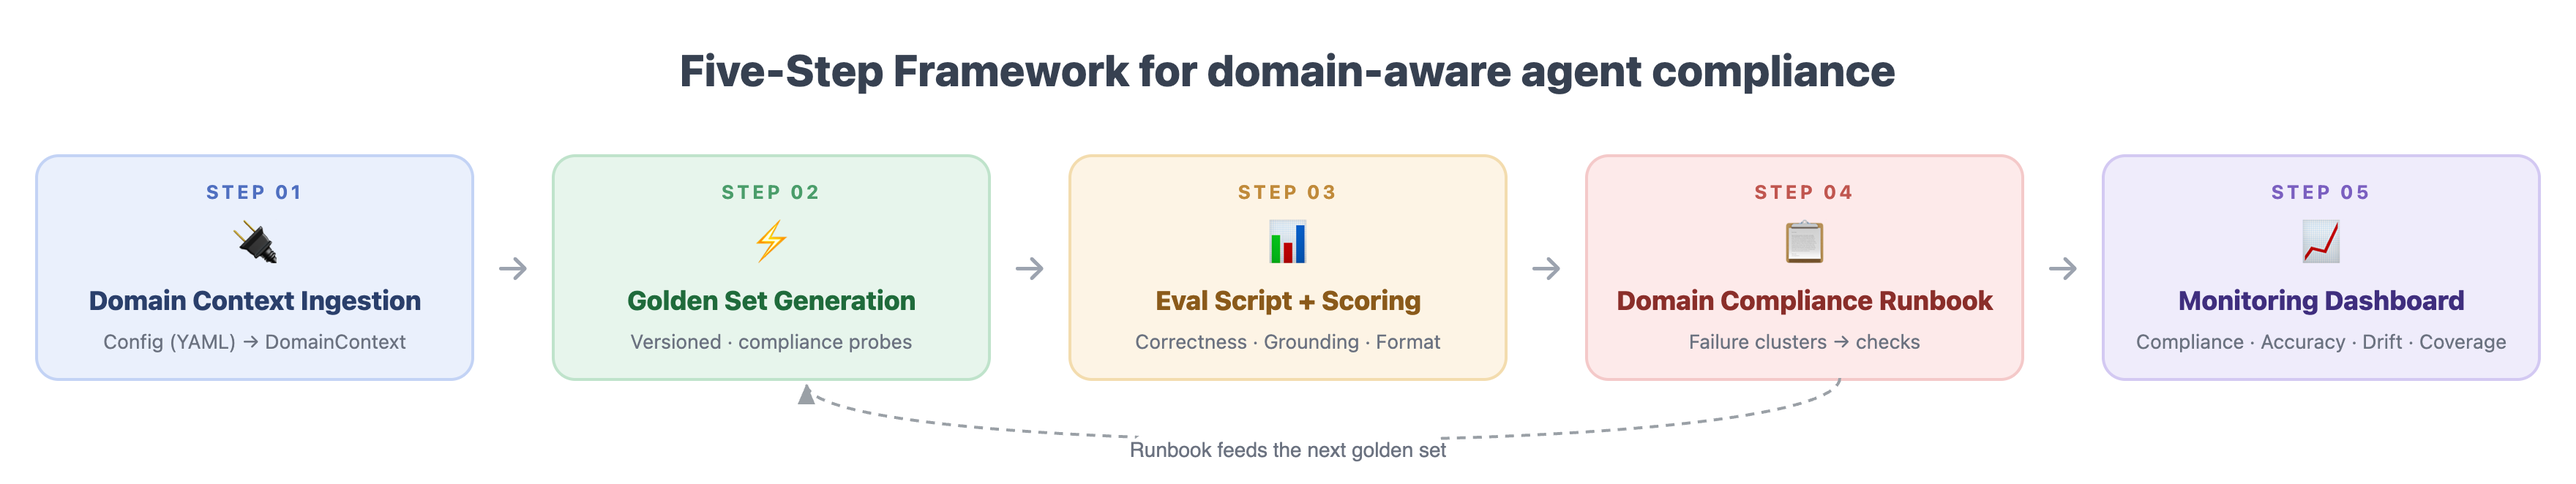
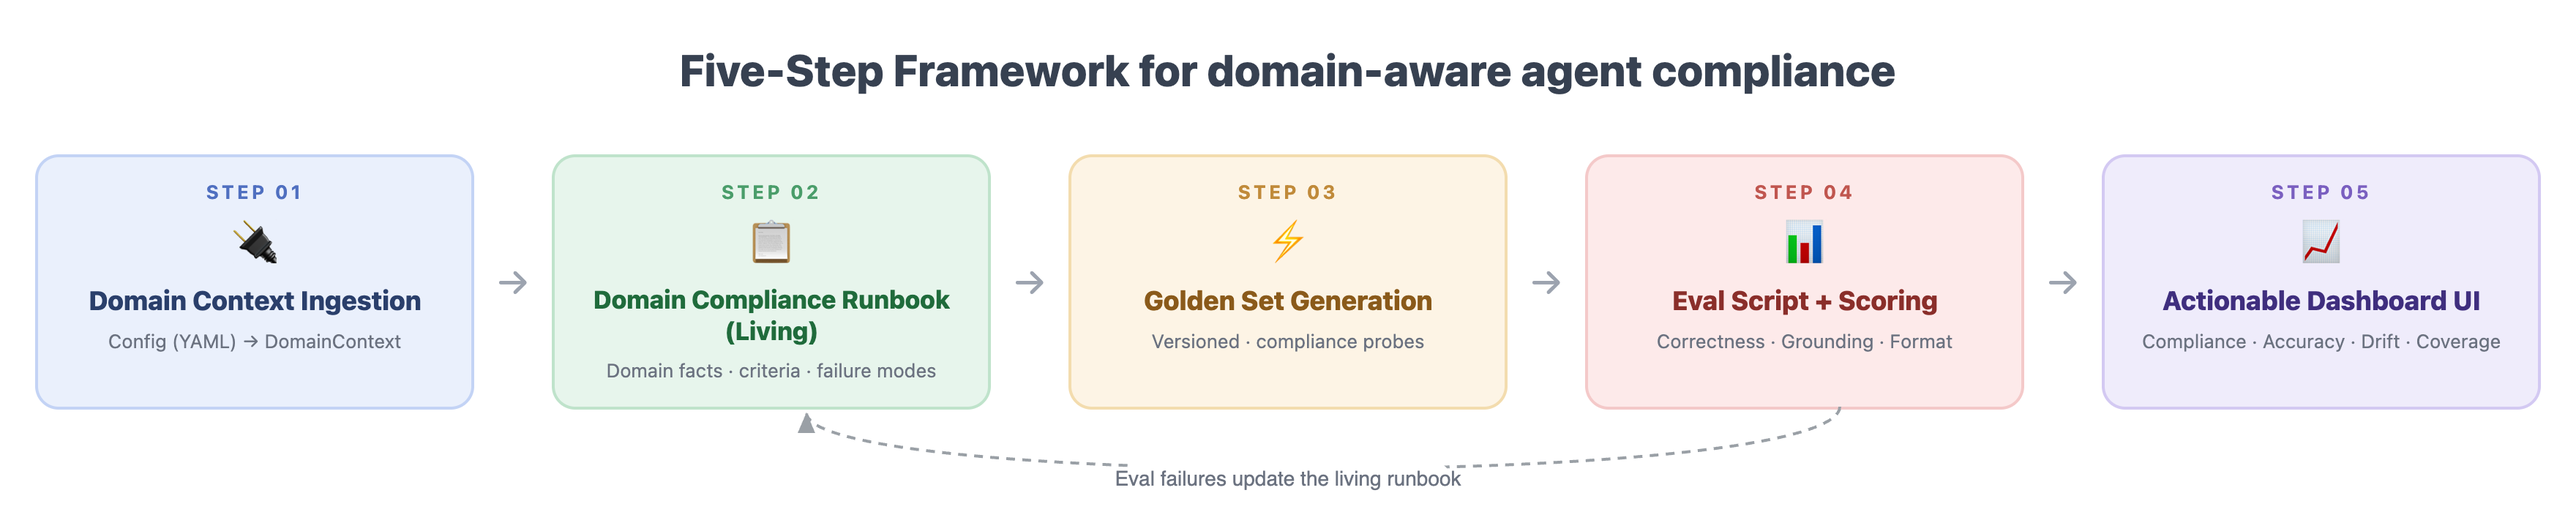
Paper: reorder framework and update pipeline diagram; drop ScienceAgentBench results
- New step order (matches updated diagram): 1 Domain Context Ingestion, 2 Domain Compliance
  Runbook (Living), 3 Golden Set Generation, 4 Eval Script + Scoring, 5 Actionable Dashboard UI.
- Regenerate pipeline.png in this order with the Step-4 -> Step-2 feedback loop; update caption,
  abstract numbering, and all in-text step references accordingly.
- Remove the ScienceAgentBench results subsection; Summary now FinanceBench-only; drop Primary/
  Contrast demo labels. Condense Discussion/Implementation to keep body at 8 pages.

diff --git a/papers/shivika_bisen/main.md b/papers/shivika_bisen/main.md
@@ -12,11 +12,11 @@ abstract: |
   We present **AI Eval Engine**, an open-source Python framework that treats evaluation as a
   pipeline to be *generated* rather than an artifact to be *authored*. A team points the
   framework at where its domain lives; the framework (1) ingests a pluggable domain context
-  from a lightweight configuration, (2) generates a versioned, domain-grounded golden set,
-  (3) emits a runnable evaluation script that scores correctness, evidence grounding, and
-  output format, (4) accumulates a living **Domain Compliance Runbook** that clusters observed failures
-  into domain-specific constraints, and (5) tracks the result as quarter-over-quarter
-  objectives and key results. A central methodological concern for any pipeline that uses a
+  from a lightweight configuration, (2) builds a living **Domain Compliance Runbook** of domain
+  facts and compliance criteria, (3) generates a versioned, domain-grounded golden set from those
+  criteria, (4) emits a runnable evaluation script that scores correctness, evidence grounding,
+  and output format — feeding failures back into the runbook, and (5) tracks the result as
+  quarter-over-quarter objectives and key results. A central methodological concern for any pipeline that uses a
   language model both to generate tests and to judge them is *self-bias*; we address it by
   anchoring demonstrations on tasks whose correctness can be verified by execution or by
   grounding in source documents, and where the model demonstrably fails without the ingested
@@ -78,7 +78,7 @@ AI Eval Engine differs in two ways: it treats **automated generation of the test
 driven by a pluggable domain context, as the primary contribution; and it accumulates a **living
 Domain Compliance Runbook** of domain constraints from observed failures, closing a loop back into
 generation. It is meant to be used *alongside* these tools — RAGAS or DeepEval metrics register as
-extra Step-3 scorers — and self-improving methods such as Agentic Context Engineering
+extra Step-4 scorers — and self-improving methods such as Agentic Context Engineering
 [@zhang2026ace] are candidates for evaluation *by* it, not components of it.
 
 ## Methodology: Domain-Aware Evaluation Without Self-Bias
@@ -117,10 +117,10 @@ pipeline.
 :::{figure} pipeline.png
 :label: fig:pipeline
 :width: 100%
-The five-step framework. A pluggable domain context (Step 1) drives golden-set generation (Step 2)
-and eval-script generation and scoring (Step 3); failure clusters feed the living **Domain
-Compliance Runbook** (Step 4), whose new constraints flow back into Step 2; a monitoring dashboard
-(Step 5) tracks the OKRs over time.
+The five-step framework. A pluggable domain context (Step 1) builds the living **Domain Compliance
+Runbook** (Step 2), whose criteria drive golden-set generation (Step 3); eval-script generation and
+scoring (Step 4) feed failures back into the runbook, and an actionable dashboard (Step 5) tracks
+the OKRs over time.
 :::
 
 ### Step 1 — Pluggable Domain Context Ingestion
@@ -152,33 +152,45 @@ patterns). Users are **not** asked to hand-author a taxonomy or compliance docum
 to where the data lives, and the framework surfaces what matters. Stratified sampling ensures
 the extraction sees the breadth of the domain rather than only its most common cases.
 
-### Step 2 — Automated Golden Set Generation
+### Step 2 — Domain Compliance Runbook (Living)
 
-From the `DomainContext`, the framework constructs a versioned, domain-grounded set of
-`GoldenCase`s, each carrying the input, the expected outcome (an executable check, an artifact, or
-an evidence-grounded answer), and the compliance criterion or capability it probes. Two paths
-exist: **normalize** (`build_golden_set`, fully offline) adopts a public benchmark's own verified
-labels; **generative** (`generate_golden_set`) has Claude author fresh cases grounded in real
-evidence — happy-path lookups, hard multi-step computations, definitionally ambiguous queries, and
-out-of-policy requests the agent must decline (e.g. asking for free cash flow from a balance sheet
-alone). In both, **compliance probes** are synthesized from the `DomainContext`'s extracted
-criteria — the five agentic-compliance anchors (domain scope, evidence grounding,
-privacy/confidentiality, no-advice, human escalation) instantiated for the domain — so every domain
-rule is always probed. Generating this *compliance coverage* from extracted constraints, rather
-than plain corpus-to-question pairs, is the contribution; recurring failures from the Compliance
-Runbook (Step 4) feed back here as priorities for the next set.
+From the `DomainContext`, the framework assembles a single content-addressed
+`domain_compliance_runbook.json` — the **Domain Compliance Runbook** — with three sections:
+**domain facts** (definitions, conventions, units), **compliance criteria** (the extracted
+agentic-compliance anchors — domain scope, evidence grounding, privacy/confidentiality, no-advice,
+and human escalation — with severity), and **common failure modes**. The first two are seeded now,
+at ingestion; the third is *living* — it accumulates as the eval (Step 4) surfaces failures, which
+the framework clusters deterministically by `(category, failure_type)` and turns into a
+`recommended_check` (the golden-set addition that would catch each one). Compliance is therefore
+*discovered, not declared*: a cluster surfaced in run $N$ becomes a runbook entry the golden-set
+generator (Step 3) picks up as a priority for run $N{+}1$, closing the loop between observation and
+test generation. The clustering and `recommended_check` mapping are **deterministic rules, not a
+learned model** — "living" means an accumulated, human-reviewable record, not gradient training.
+
+### Step 3 — Automated Golden Set Generation
+
+From the Domain Compliance Runbook's criteria, the framework constructs a versioned,
+domain-grounded set of `GoldenCase`s, each carrying the input, the expected outcome (an executable
+check, an artifact, or an evidence-grounded answer), and the compliance criterion or capability it
+probes. Two paths exist: **normalize** (`build_golden_set`, fully offline) adopts a public
+benchmark's own verified labels; **generative** (`generate_golden_set`) has Claude author fresh
+cases grounded in real evidence — happy-path lookups, hard multi-step computations, definitionally
+ambiguous queries, and out-of-policy requests the agent must decline (e.g. asking for free cash
+flow from a balance sheet alone). In both, **compliance probes** are synthesized from the runbook's
+five anchors, so every domain rule is always probed. Generating this *compliance coverage* from
+extracted constraints, rather than plain corpus-to-question pairs, is the contribution; recurring
+failures recorded in the runbook (Step 2) feed back here as priorities for the next set.
 
 Both modes enforce one rule: every figure in an expected answer must be traceable to cited
-evidence, or the case becomes an explicit refusal — the self-bias guard from
-[](#methodology), letting a reviewer (or, where a public split exists, the benchmark's own gold
-answer) verify each case without trusting the generator. The FinanceBench result in
-[](#sec:results) uses **generative** mode — the framework authors its own golden set, which is
-exactly what we evaluate there — while the ScienceAgentBench comparison anchors to that
-benchmark's published expert-knowledge baseline. Golden sets are content-addressed (`goldensets/<version>/`) so reruns
-can be diffed, and a human reviewer may accept, edit, or reject any case before it is promoted —
-the human role is **reviewer**, not author.
+evidence, or the case becomes an explicit refusal — the self-bias guard from [](#methodology),
+letting a reviewer (or, where a public split exists, the benchmark's own gold answer) verify each
+case without trusting the generator. The FinanceBench result in [](#sec:results) uses
+**generative** mode — the framework authors its own golden set, which is exactly what we evaluate
+there. Golden sets are content-addressed (`goldensets/<version>/`) so reruns can be diffed, and a
+human reviewer may accept, edit, or reject any case before it is promoted — the human role is
+**reviewer**, not author.
 
-### Step 3 — Eval Script Generation and Scoring
+### Step 4 — Eval Script Generation and Scoring
 
 The framework emits a runnable Python evaluation script producing three orthogonal scores per
 case: **correctness** (execution of the produced program for executable cases, or a normalized /
@@ -187,26 +199,12 @@ evidence, by deterministic token/numeric overlap, so a fluent but unsupported fi
 penalized), and **format validation** (structural integrity, checked without a model call). All
 three scorers in [](#sec:results) are **deterministic** — no model grades another model's output.
 Scorers are pluggable: the shipped `grounded_qa` and `code_execution` cover the two demos, and
-metrics from tools such as RAGAS or DeepEval can register as additional Step-3 scorers. The
+metrics from tools such as RAGAS or DeepEval can register as additional scorers. The
 {abbr}`LLM (large language model)`-as-judge is the designed fallback for the genuinely open-ended
 residue but was not exercised here: the judge is never the sole arbiter on a task that execution or
-grounding can settle.
+grounding can settle. Failures from this step feed back into the Domain Compliance Runbook (Step 2).
 
-### Step 4 — Living Domain Compliance Runbook
-
-Step 4 turns eval results into a living **Domain Compliance Runbook**. From the scored run it clusters
-failures deterministically by `(category, failure_type)` and, for each cluster, records a
-`recommended_check` — the golden-set addition that would catch that failure. The runbook is unified
-with the Step-1 domain context into a single content-addressed `domain_compliance_runbook.json`
-with three sections: **domain facts** (definitions, conventions, units), **compliance criteria**
-(the extracted anchors, with severity), and **common failure modes** (failures rolled up by type,
-each with its guardrail). Compliance is *discovered, not declared*: a cluster surfaced in run $N$
-becomes a runbook entry the Step-2 generator picks up as a priority for run $N{+}1$, closing the
-loop between observation and test generation. The clustering and `recommended_check` mapping are
-**deterministic rules, not a learned model** — "living" means an accumulated, human-reviewable
-failure record, not gradient training.
-
-### Step 5 — Post-Launch Monitoring Dashboard
+### Step 5 — Actionable Dashboard UI
 
 Once the pipeline has run, the framework becomes a live OKR tracker: as data changes, golden sets
 and the Runbook regenerate on rerun, enabling quarter-over-quarter tracking of an **Agent
@@ -225,17 +223,18 @@ free-text-with-evidence, execution versus grounding, both failing without the in
 context. Both were chosen under the principle of [](#methodology): correctness is checkable
 independently of the judge, and one pipeline serves both.
 
-### Use Case 1 — Scientific-Coding Agent on ScienceAgentBench (Primary Demo)
+### Use Case 1 — Scientific-Coding Agent on ScienceAgentBench
 
 Given a scientific task and a dataset, the agent produces a self-contained Python program. We use
 **ScienceAgentBench** [@chen2024scienceagentbench] — 102 tasks from 44 peer-reviewed papers across
 four disciplines, each **scored by execution** (the best agents solve roughly a third, so it is
 far from saturated). Its *dataset + optional expert knowledge* input maps directly onto Step 1,
 its execution scoring is self-bias-proof, and it is SciPy-native. Step 1 ingests the task and
-expert knowledge; Step 2 generates capability questions and compliance probes; Step 3 scores by
-executing the program; Step 4 clusters failures such as "loads the wrong columns."
+expert knowledge into the Domain Compliance Runbook (Step 2); Step 3 generates capability questions
+and compliance probes; Step 4 scores by executing the program, and failures (e.g. "loads the wrong
+columns") cluster back into the runbook.
 
-### Use Case 2 — Financial Document QA on FinanceBench (Contrast Demo)
+### Use Case 2 — Financial Document QA on FinanceBench
 
 The contrasting agent answers open-ended questions over real 10-K filings. We use **FinanceBench**
 [@islam2023financebench] — open-book QA with 10,231 evidence-linked questions, on which a strong
@@ -243,17 +242,18 @@ retrieval-augmented model was wrong or refused on roughly four-fifths of a sampl
 task is genuinely hard. The agent **must** ground each answer in the supplied documents, and the
 safety dimension is intrinsic: a hallucinated figure or a wrong refusal on a regulated domain is
 the failure that matters. The pipeline is identical — Step 1 extracts the filing taxonomy and
-grounding constraints; Step 2 generates evidence-required and refusal-expected cases; Step 3 scores
-against cited evidence (drawing on hallucination labels such as RAGTruth [@wu2024ragtruth]); Step 4
-clusters failures such as "states an unsupported figure." One pipeline thus spans a structured,
+grounding constraints into the runbook (Step 2); Step 3 generates evidence-required and
+refusal-expected cases; Step 4 scores against cited evidence (drawing on hallucination labels such
+as RAGTruth [@wu2024ragtruth]), and failures such as "states an unsupported figure" cluster back
+into the runbook. One pipeline thus spans a structured,
 execution-verified coder and an open-ended, grounding-verified QA agent without per-domain tooling.
 
 ## Results
 
 (sec:results)=
 
-The experimental variable throughout is the **domain context supplied to the Step-2
-generator**. On each dataset the generator runs twice over the *same* source documents with an
+The experimental variable throughout is the **domain context supplied to the golden-set generator
+(Step 3)**. On each dataset the generator runs twice over the *same* source documents with an
 *identical* prompt — once **with** the ingested `DomainContext` (and, on FinanceBench, the
 domain-compliance runbook) and once **without** either — and we compare the two golden sets it
 produces. The evaluation is of the **generated questions, not the agent's answers**: what a
@@ -375,63 +375,35 @@ agent-compliance sub-category (0)** — the blind generator writes no compliance
   - ~15-line YAML
 ```
 
-### ScienceAgentBench: structural comparison and the published expert-knowledge gap
-
-For the execution-scored coding agent we report the **structural** effect of domain context on the
-generated evaluation, holding the correctness side to the benchmark's own published numbers.
-Running Step 1 on the ScienceAgentBench tasks and generating the golden set with and without the
-resulting `DomainContext` changes its structure: from **12** capability cases to **17** (12
-capability + 5 compliance probes), adding a compliance dimension — a compliance score and a
-compliance category, across the four disciplines — that the generic evaluation lacks entirely.
-
-The five generated compliance probes are domain failure modes the extractor surfaced from the
-tasks themselves — compute the requested metric not a proxy (critical), use the specified
-files/columns, write the exact output path, fail loudly on missing data, and preserve
-domain-method semantics. They exist only because Step 1 ingested the domain.
-
-For correctness we anchor to ScienceAgentBench's published result: the best agents solve ~32% of
-tasks, rising to ~42% with **hand-authored expert knowledge** [@chen2024scienceagentbench] — itself
-a with-versus-without-domain-knowledge comparison validated by the benchmark's authors. Our Step-1
-`DomainContext` is an *automated* replacement for that expert knowledge, so we frame the
-contribution against a baseline the benchmark already established. A full execution-scored run is
-left to future work (see [](#sec:limitations)).
-
 ### Summary
 
-Across both demonstrations the result is the same, and it is a *generation-time coverage* result
-rather than an accuracy swing: giving the Step-2 generator the ingested domain context changes
+The result is a *generation-time coverage* finding rather than an accuracy swing: giving the
+golden-set generator the ingested domain context — through the Domain Compliance Runbook — changes
 what the golden set can test for. On FinanceBench it turns 50 generic, weakly-grounded disclosure
-questions with **zero** compliance probes into 36 grounded, domain-specific questions plus 14
-probes spanning all four behavioral compliance anchors, with the questions measurably closer to real
-filings on both a judge and a judge-free metric. On ScienceAgentBench it adds five
-execution-compliance tests and a compliance dimension the generic evaluation structurally lacks. In both cases the added
-coverage exists *only because Step 1 ran*; a generic golden set, scoring the very same agent, has
-no way to surface it.
+questions with **zero** compliance probes into 36 grounded, domain-specific questions plus 14 probes
+spanning all four behavioral compliance anchors, with the questions measurably closer to real
+filings on both a judge and a judge-free metric. The added coverage exists *only because Step 1
+ran*; a generic golden set, scoring the very same agent, has no way to surface it.
 
 ## Implementation Notes
 
-The framework is implemented in Python (3.11+) and all five steps are exercised in
-[](#sec:results). Only Step 1 needs a model call (Claude via the Anthropic API
-[@anthropic2025claude], with prompt caching); Steps 2–5 run offline and deterministically, so the
-golden set, scoring, runbook, and dashboard reproduce without an API key. Both demos use public
-data with independent checks (execution for ScienceAgentBench, document grounding for FinanceBench),
-and Use Case 2 retrieves with Chroma [@chroma]. Configuration is YAML — no code to onboard a domain
-— and artifacts are plain-text and Git-friendly. The repository is MIT-licensed; a live
-demonstration will accompany the SciPy 2026 talk.
+The framework is implemented in Python (3.11+); all five steps are exercised in [](#sec:results).
+Only Step 1 needs a model call (Claude via the Anthropic API [@anthropic2025claude], with prompt
+caching); Steps 2–5 run offline and deterministically, so the artifacts reproduce without an API
+key. Both demos use public data with independent checks (execution for ScienceAgentBench, document
+grounding for FinanceBench), and Use Case 2 retrieves with Chroma [@chroma]. Configuration is YAML,
+and artifacts are plain-text and Git-friendly. The repository is MIT-licensed; a live demonstration
+will accompany the SciPy 2026 talk.
 
 ## Discussion
 
-**Reviewer, not author.** The framework keeps a human in the loop at every generation step — not
-because the model cannot do the job, but because an artifact a domain expert *accepted* carries
-different organizational weight; it optimizes for *acceptance latency*, not full autonomy.
-
-**Discovered, not declared.** The Domain Compliance Runbook grows from observed failures rather than an
-upfront constraint list, on the wager that teams do not know the full list until they have watched
-the agent fail — and that learning feeds back into test generation.
-
-**Verifiability as a design constraint.** Choosing datasets by *checkability* is what lets us claim
-domain-aware evaluation without conceding to self-bias; the framework is most trustworthy where an
-independent check exists, and judged scores should be read as weaker than verified ones.
+**Reviewer, not author.** A human stays in the loop at every generation step — an artifact a domain
+expert *accepted* carries different organizational weight, so the framework optimizes for
+*acceptance latency*, not full autonomy. **Discovered, not declared.** The Domain Compliance Runbook
+grows from observed failures rather than an upfront list, on the wager that teams learn the
+constraint set only by watching the agent fail. **Verifiability as a design constraint.** Choosing
+datasets by *checkability* is what lets us claim domain-aware evaluation without conceding to
+self-bias; judged scores should be read as weaker than verified ones.
 
 (sec:limitations)=
 ## Limitations and Future Work
